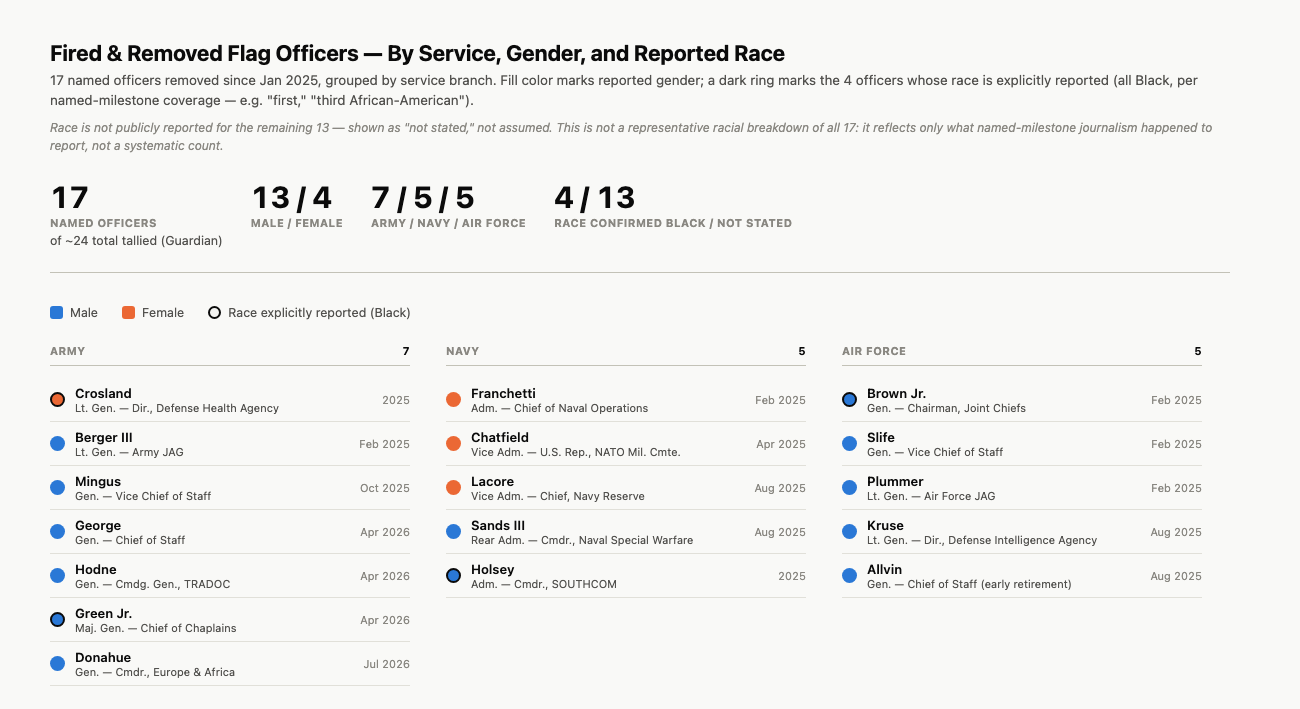
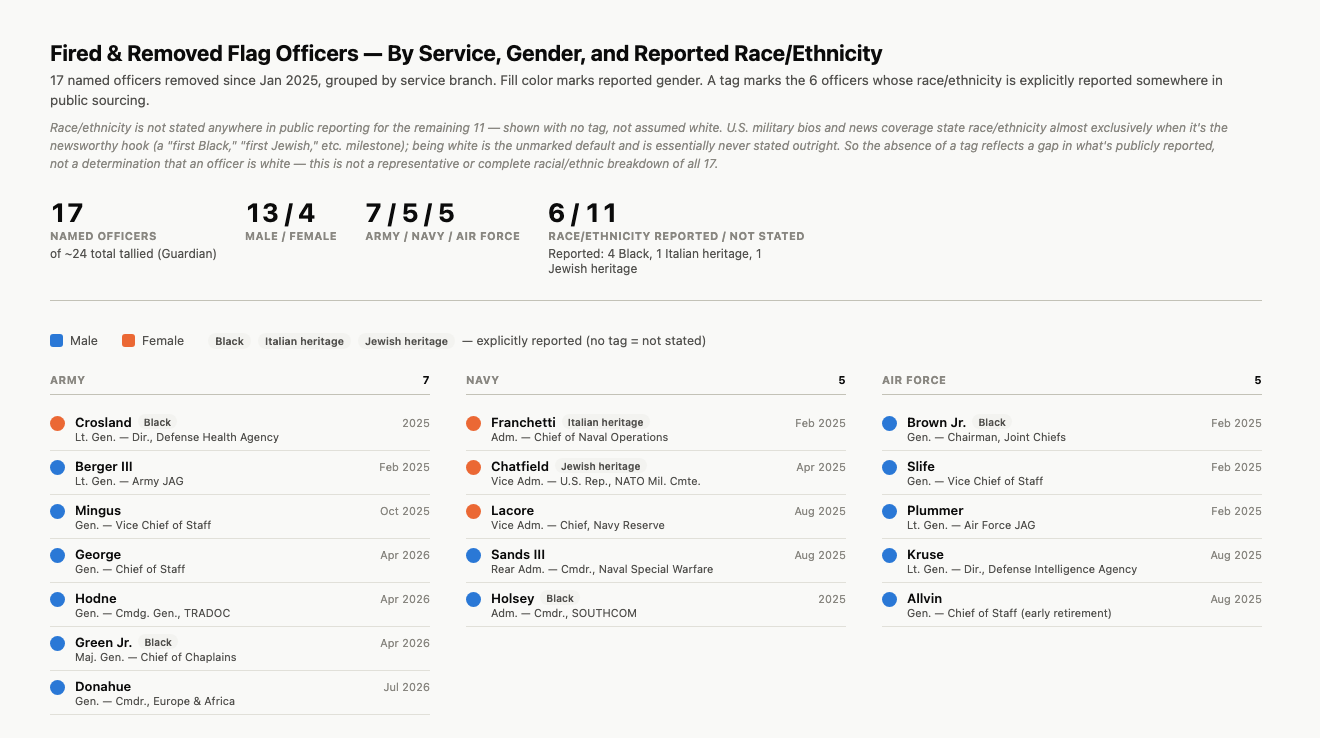
2026-08-20: expand race/ethnicity research, revise diagram (2 more confirmed) — How Many Flag Officers Has the Secretary of War Fired?

diff --git a/reports/2026-08-20-secretary-of-war-flag-officer-firings.md b/reports/2026-08-20-secretary-of-war-flag-officer-firings.md
@@ -42,7 +42,7 @@ Checked `raceBannon99/nexus-artifacts` (the Library) and ran a content grep acro
 - **A separate, structural action — not a firing, and not counted in the 24**: Hegseth has directed the active-duty military to cut 20 of its four-star general officer billets, a reduction in authorized senior positions rather than a personnel dismissal.
 - **A false viral claim, debunked**: Snopes confirmed no mass resignation of "300 generals and officers" occurred in August 2026; this figure has no basis in the reporting.
 - **Reported pattern**: multiple outlets state that roughly 60% of officers removed have been Black or female, and that no performance-based public justification has accompanied most removals — a pattern several retired officers and lawmakers have called unprecedented in scale and manner.
-- **Individual-level demographic check (added 08-20, at Rick's request):** researched service branch, gender, and race for each of the 17 individually-named officers in Tufte's roster below. Gender is reliably determinable for all 17 (rank prefix/pronoun in direct reporting). Race is explicitly, reliably reported for only **4 of the 17** — Gen. Charles Q. Brown Jr., Lt. Gen. Telita Crosland, Adm. Alvin Holsey, and Maj. Gen. William Green Jr. — each because their removal coverage specifically framed them as a "first" or "third" Black officer to hold that post. For the other 13, no reliable public reporting states race at all. **This report does not infer race for those 13** — not from names, photos, or any other proxy — since doing so would fabricate a personal characteristic about real, named individuals with no verifiable basis. The 60%-Black-or-female aggregate figure above (Guardian-sourced) cannot be reconciled against this individual-level count, since it isn't clear which of the other ~7 officers in the Guardian's full 24 (beyond these 17) are counted toward that 60% or on what basis.
+- **Individual-level demographic check (added 08-20, at Rick's request):** researched service branch, gender, and race/ethnicity for each of the 17 individually-named officers in Tufte's roster below. Gender is reliably determinable for all 17 (rank prefix/pronoun in direct reporting). Race/ethnicity is explicitly, reliably reported for **6 of the 17**: Gen. Charles Q. Brown Jr., Lt. Gen. Telita Crosland, Adm. Alvin Holsey, and Maj. Gen. William Green Jr. are each reported as Black, per coverage that specifically framed their removal as notable because they were a "first" or "third" Black officer to hold that post; Adm. Lisa Franchetti is documented as of Italian heritage in her official U.S. Navy History and Heritage Command biography; Vice Adm. Shoshana Chatfield is widely reported as the first Jewish woman to lead the Naval War College. **A second research pass (08-20, second update)** specifically searched each of the remaining 11 officers for any heritage/ethnicity framing ("first Hispanic," "first Asian American," official-bio heritage language, etc.) — none turned up anything. **This report does not infer race/ethnicity for those 11** — not from names, photos, or any other proxy. There's a structural reason the gap exists and isn't closable by more searching: U.S. military bios and news coverage state race/ethnicity almost exclusively when it's the newsworthy hook (a "first ___" milestone); being white is the unmarked default and is essentially never stated outright in routine coverage. Absence of a tag for the other 11 therefore reflects a gap in what gets publicly reported, not a determination that those officers are white — Rick reviewed this tradeoff directly and chose to keep the 11 as an explicit "not stated" category rather than default them to any presumed race. The 60%-Black-or-female aggregate figure above (Guardian-sourced) cannot be reconciled against this individual-level count, since it isn't clear which of the other ~7 officers in the Guardian's full 24 (beyond these 17) are counted toward that 60% or on what basis.
 
 **Worth archiving?** Sherlock flags nothing here as a standalone Library candidate — this is a fast-moving current-events tally better tracked in this report's own Sources than turned into a static fact-sheet that would go stale within weeks.
 
@@ -105,11 +105,11 @@ This is genuine tabular data — named individuals, ranks, roles, dates, and rem
 
 *This table lists the 17 named or specifically-described removals identifiable in this research (up from 16 as of the initial pass — the two Judge Advocates General previously listed as "unnamed" are now named); the Guardian's tally of 24 includes additional cases not individually named in the sources reviewed here. Not a complete roster — a floor, not the full count.*
 
-**Diagram added 08-20, at Rick's request** — a breakdown of the same 17 officers by service branch, gender, and reported race. Genuine three-dimensional composition across named individuals is exactly the case where spatial grouping (by service) plus color (gender) plus a status marker (race, where confirmed) carries a pattern a table's rows can't show as fast — so this gets a real rendered image, not a fourth and fifth text column. Built with the `dataviz` skill's validated palette (categorical blue/orange for gender, both checked against CVD and contrast floors in light and dark) and rendered via headless Chrome CLI, the same mechanism as every other Tufte diagram in this project.
+**Diagram added 08-20, at Rick's request; revised same day (second pass) after a deeper race/ethnicity research round** — a breakdown of the same 17 officers by service branch, gender, and reported race/ethnicity. Genuine three-dimensional composition across named individuals is exactly the case where spatial grouping (by service) plus color (gender) plus a text tag (race/ethnicity, where confirmed) carries a pattern a table's rows can't show as fast — so this gets a real rendered image, not a fourth and fifth text column. Built with the `dataviz` skill's validated palette (categorical blue/orange for gender, both checked against CVD and contrast floors in light and dark) and rendered via headless Chrome CLI, the same mechanism as every other Tufte diagram in this project.
 
 <img src="https://raw.githubusercontent.com/raceBannon99/The-Nexus/main/reports/images/2026-08-20-secretary-of-war-flag-officer-firings/officer-roster.png" width="900">
 
-**On the race encoding specifically:** the diagram marks race only for the 4 officers (Brown, Crosland, Holsey, Green) whose removal coverage explicitly reported it, each because the coverage framed them as a "first" or "third" Black officer in that post. The other 13 are shown as "not stated," not defaulted to any other category — this diagram does not assert, and should not be read as implying, that the other 13 are white. It's an honest floor on a fact this research can verify, not a representative racial breakdown of the full roster.
+**On the race/ethnicity encoding specifically:** the diagram tags only the 6 officers whose race/ethnicity is explicitly stated somewhere in public sourcing — Brown, Crosland, Holsey, and Green (each reported as Black, via "first"/"third" milestone coverage), Franchetti (Italian heritage, per her official Navy History and Heritage Command bio), and Chatfield (Jewish heritage, per coverage of her as the first Jewish woman to lead the Naval War College). The other 11 carry no tag — not defaulted to white or any other category. Rick was given the choice between leaving this gap explicit, presuming-white-and-flagging-it, or dropping race from the diagram entirely, and chose to keep the gap explicit: this diagram does not assert, and should not be read as implying, that the other 11 are white. It's an honest floor on what this research can verify, not a representative or complete racial/ethnic breakdown of the full roster — see the Facts section above for why that gap can't be closed by more searching (routine coverage essentially never states that an officer is white, since it's treated as the unmarked default).
 
 **Worth archiving?** Not this table or diagram specifically (both will be stale within weeks as the count grows) — but the table *structure* (Officer / Service / Role / Removal Type / Date) and the diagram's race-confirmed-vs-not-stated convention are reusable patterns for any future update pass on this topic, or for any other Nexus question involving demographic breakdowns of named individuals where public reporting is incomplete.
 
@@ -147,6 +147,11 @@ No new repeatable procedure came out of this run — standard WebSearch/WebFetch
 - [Hegseth fired the Air Force's top lawyer. The JAG who took on the job is stepping away.](https://www.govexec.com/defense/2025/10/hegseth-fired-air-forces-top-lawyer-jag-who-took-job-stepping-away/409070/) (Government Executive) — names Lt. Gen. Charles L. Plummer and Lt. Gen. Joseph B. Berger III as the fired Air Force and Army JAGs, and Vice Adm. Christopher French's resignation as the Navy's distinct case.
 - [Vice Admiral Nancy S. Lacore](https://www.navy.mil/Leadership/Flag-Officer-Biographies/Article/2236442/vice-admiral-nancy-s-lacore/) (U.S. Navy, official bio); [Rear Admiral Milton "Jamie" Sands III](https://news.usni.org/2025/08/22/navy-reserve-naval-special-warfare-leaders-removed-from-command) (USNI News) — service/gender confirmation, no race reported in either.
 - [James Mingus](https://en.wikipedia.org/wiki/James_Mingus) (Wikipedia) — confirms October 2025 removal date, one year earlier than expected.
+
+**News coverage — added 08-20, second update pass (deeper race/ethnicity search):**
+- [Admiral Lisa Franchetti](https://www.history.navy.mil/browse-by-topic/people/chiefs-of-naval-operations/admiral-lisa-franchetti.html) (Naval History and Heritage Command, official U.S. Navy history) — documents Franchetti's Italian heritage.
+- [Vice Adm. Shoshana Chatfield, First Jewish Woman to Lead Naval War College, Fired](https://vinnews.com/2025/04/07/vice-adm-shoshana-chatfield-first-jewish-woman-to-lead-naval-war-college-fired/) (VINnews) — Chatfield's Jewish identity and the "first" framing of her earlier Naval War College presidency.
+- Individual searches for Slife, Plummer, Berger, Kruse, Lacore, Sands, Allvin, Mingus, George, Hodne, and Donahue across Wikipedia, official DoD/service bios, and news profiles — none surfaced any explicit race/ethnicity statement for these 11 officers.
 
 ## Library Recommendations (Alexandria — Closing)
 
